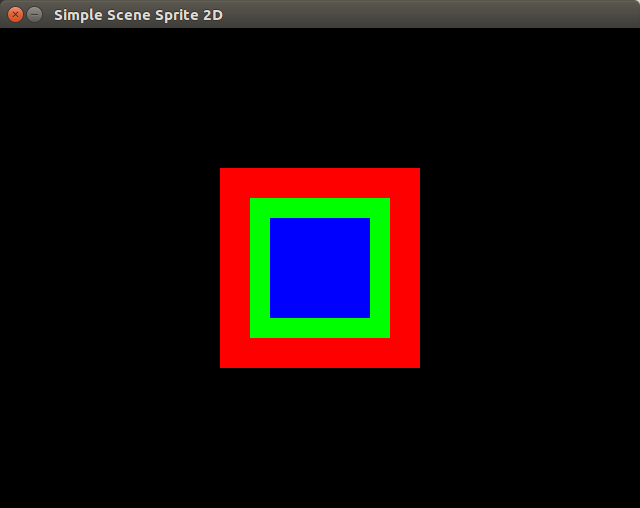
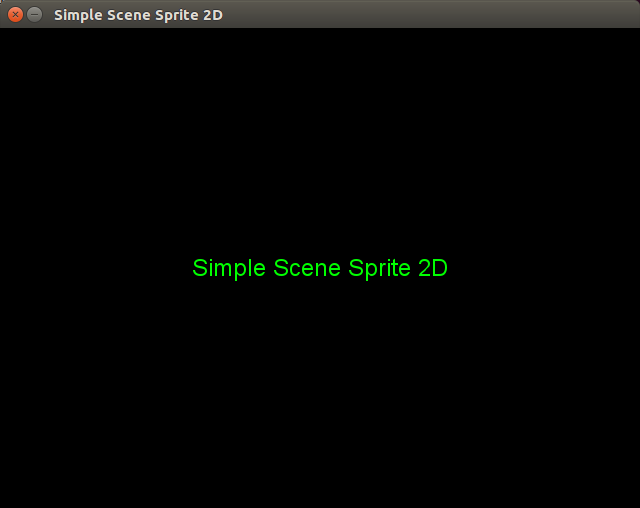
TextSprite

Changed region(s): [[0.2812, 0.3248, 0.7188, 0.7382]]

diff --git a/SSS_Sprite.cpp b/SSS_Sprite.cpp
@@ -1,7 +1,5 @@
 /*
  *  File    : SSS_Sprite.cpp
- *  Version : beta 0.1
- *  Date    : alpha-7-12
  *  Author  : Plan C
  *  Blog    : blog.kurukurumi.com
  *  E-mail  : hubenchang0515@outlook.com
@@ -54,10 +52,122 @@ void AreaSprite::setArea(Area area)
     this->area_ = area;
 }
 
+void AreaSprite::setArea(int x,int y,int w,int h)
+{
+    this->area_.x = x;
+    this->area_.y = y;
+    this->area_.w = w;
+    this->area_.h = h;
+}
+
 void AreaSprite::setColor(Color color)
 {
     this->color_ = color;
 }
+
+void AreaSprite::setColor(Uint8 r,Uint8 g,Uint8 b,Uint8 a)
+{
+    this->color_.r = r;
+    this->color_.g = g;
+    this->color_.b = b;
+    this->color_.a = a;
+}
 // } class AreaSprite
 
+
+// class TextSprite {
+TTF_Font* TextSprite::font_ = nullptr;
+std::string TextSprite::fontFile_ = "";
+size_t TextSprite::fontSize_ = 16;
+
+void TextSprite::setFont(std::string file)
+{
+	TTF_CloseFont(TextSprite::font_);
+	TextSprite::fontFile_ = file;
+	TextSprite::font_ = TTF_OpenFont(file.c_str(),
+								TextSprite::fontSize_);
+								
+	if(TextSprite::font_ == nullptr)
+	{
+		TTF_THROW();
+	}
+}
+
+void TextSprite::setFontSize(size_t size)
+{
+	TextSprite::fontSize_ = size;
+	TTF_CloseFont(TextSprite::font_);
+	TextSprite::font_ = TTF_OpenFont(TextSprite::fontFile_.c_str(),size);
+	
+	if(TextSprite::font_ == nullptr)
+	{
+		TTF_THROW();
+	}
+}
+
+TextSprite::TextSprite(AbstractScene* scene)
+	: AbstractSprite(scene)
+{
+    this->texture_ = nullptr;
+}
+
+void TextSprite::update()
+{
+
+}
+
+void TextSprite::draw()
+{
+    if(this->texture_ != nullptr)
+    {
+    	//setDrawColor(this->renderer(),this->color_);
+    	drawTexture(this->renderer(),this->texture_,this->position_);
+	}
+}
+
+void TextSprite::setText(std::string text)
+{
+    this->text_ = text;
+    SDL_DestroyTexture(this->texture_);
+	Surface* surface = TTF_RenderText_Blended(TextSprite::font_,
+	                                          text.c_str(),this->color_);
+	this->texture_ = SDL_CreateTextureFromSurface(this->renderer(),surface);
+	SDL_FreeSurface(surface);
+}
+
+void TextSprite::setPosition(Position center)
+{
+	this->position_ = center;
+}
+
+void TextSprite::setPosition(int x,int y)
+{
+    this->position_.x = x;
+    this->position_.y = y;
+}
+
+void TextSprite::setColor(Color color)
+{
+	this->color_ = color;
+	SDL_DestroyTexture(this->texture_);
+	Surface* surface = TTF_RenderUTF8_Blended(TextSprite::font_,
+	                                          this->text_.c_str(),this->color_);
+	this->texture_ = SDL_CreateTextureFromSurface(this->renderer(),surface);
+	SDL_FreeSurface(surface);
+}
+
+void TextSprite::setColor(Uint8 r,Uint8 g,Uint8 b,Uint8 a)
+{
+    this->color_.r = r;
+    this->color_.g = g;
+    this->color_.b = b;
+    this->color_.a = a;
+    
+    SDL_DestroyTexture(this->texture_);
+	Surface* surface = TTF_RenderUTF8_Blended(TextSprite::font_,
+	                                          this->text_.c_str(),this->color_);
+	this->texture_ = SDL_CreateTextureFromSurface(this->renderer(),surface);
+	SDL_FreeSurface(surface);
+}
+// } class TextSprite
 };// sss2d

diff --git a/SSS_Sprite.h b/SSS_Sprite.h
@@ -1,7 +1,5 @@
 /*
  *  File    : SSS_Sprite.h
- *  Version : alpha 0.1
- *  Date    : 2017-7-12
  *  Author  : Plan C
  *  Blog    : blog.kurukurumi.com
  *  E-mail  : hubenchang0515@outlook.com
@@ -9,14 +7,14 @@
 #ifndef SSS_SPRITE_H
 #define SSS_SPRITE_H
 
-
-#include <list>
+#include <string>
 
 #include "SSS_Base.h"
 #include "SSS_Scene.h"
 
 namespace sss2d{
 
+/* Super Class of All Sprite */
 class AbstractSprite
 {
 public:
@@ -34,7 +32,7 @@ private:
 };
 
 
-
+/* Rectangle Color Lump Sprit */
 class AreaSprite : public AbstractSprite
 {
 public:
@@ -44,12 +42,45 @@ public:
     virtual void draw();
     
     void setArea(Area area);
+    void setArea(int x,int y,int w,int h);
     void setColor(Color color);
+    void setColor(Uint8 r,Uint8 g,Uint8 b,Uint8 a);
 
 private:
     Area area_;
     Color color_;
 };
+
+
+/* Sprite of Text */
+class TextSprite : public AbstractSprite
+{
+public:
+	static void setFont(std::string file);
+	static void setFontSize(size_t size);
+	
+	TextSprite(AbstractScene* scene  = nullptr);
+	
+	virtual void update();
+	virtual void draw();
+	
+	void setText(std::string text);
+	void setPosition(Position position);
+	void setPosition(int x,int y);
+	void setColor(Color color);
+	void setColor(Uint8 r,Uint8 g,Uint8 b,Uint8 a);
+	
+private:
+	Position position_;
+	Color color_;
+	Texture* texture_;
+	std::string text_;
+	
+	static TTF_Font* font_;
+	static std::string fontFile_;
+	static size_t fontSize_;
+};
+
 
 };// namespace sss2d
 

diff --git a/SSS_Base.h b/SSS_Base.h
@@ -1,7 +1,5 @@
 /*
  *  File    : SSS_Base.h
- *  Version : alpha 0.1
- *  Date    : 2017-7-11
  *  Author  : Plan C
  *  Blog    : blog.kurukurumi.com
  *  E-mail  : hubenchang0515@outlook.com
@@ -19,10 +17,14 @@
 #include <SDL2/SDL_image.h>
 #include <SDL2/SDL_ttf.h>
 
+#define SDL_THROW() (throw std::runtime_error(SDL_GetError()))
+#define IMG_THROW() (throw std::runtime_error(IMG_GetError()))
+#define TTF_THROW() (throw std::runtime_error(TTF_GetError()))
 
 namespace sss2d{
 
 typedef double          fps_t;
+typedef SDL_Surface	    Surface;
 typedef SDL_Texture     Texture;
 typedef SDL_Renderer    Renderer;
 typedef SDL_Window      Window;
@@ -44,6 +46,14 @@ inline void setDrawColor(Renderer* renderer,Color color)
 inline void fillArea(Renderer* renderer,Area area)
 {
     SDL_RenderFillRect(renderer,&area);
+}
+
+inline void drawTexture(Renderer* renderer,Texture* texture,Position center)
+{
+	int w,h;
+	SDL_QueryTexture(texture,NULL,NULL,&w,&h);
+	Area area = {center.x - w/2, center.y - h/2, w, h};
+	SDL_RenderCopy(renderer,texture,NULL,&area);
 }
 
 };// namespace sss2d

diff --git a/SSS_Application.cpp b/SSS_Application.cpp
@@ -1,7 +1,5 @@
 /*
  *  File    : SSS_Application.cpp
- *  Version : alpha 0.1
- *  Date    : 2017-7-10
  *  Author  : Plan C
  *  Blog    : blog.kurukurumi.com
  *  E-mail  : hubenchang0515@outlook.com
@@ -10,9 +8,6 @@
 #include "SSS_Application.h"
 
 /* simplify */
-#define SDL_THROW() (throw std::runtime_error(SDL_GetError()))
-#define IMG_THROW() (throw std::runtime_error(IMG_GetError()))
-#define TTF_THROW() (throw std::runtime_error(TTF_GetError()))
 #define IMG_INIT_EVERYTHING (IMG_INIT_JPG | IMG_INIT_PNG | IMG_INIT_TIF)
 
 namespace sss2d{
@@ -45,6 +40,10 @@ Application::Application(std::string title,int width,int height)
     }
     
     this->renderer_ = SDL_CreateRenderer(this->window_,-1,SDL_RENDERER_ACCELERATED);
+    if(this->renderer_ == nullptr)
+    {
+        this->renderer_ = SDL_CreateRenderer(this->window_,-1,0);
+    }
     if(this->renderer_ == nullptr)
     {
         SDL_THROW();

diff --git a/SSS_Application.h b/SSS_Application.h
@@ -1,7 +1,5 @@
 /*
  *  File    : SSS_Application.h
- *  Version : alpha 0.1
- *  Date    : 2017-7-10
  *  Author  : Plan C
  *  Blog    : blog.kurukurumi.com
  *  E-mail  : hubenchang0515@outlook.com

diff --git a/SSS_Scene.cpp b/SSS_Scene.cpp
@@ -1,7 +1,5 @@
 /*
  *  File    : SSS_Scene.cpp
- *  Version : alpha 0.1
- *  Date    : 2017-7-11
  *  Author  : Plan C
  *  Blog    : blog.kurukurumi.com
  *  E-mail  : hubenchang0515@outlook.com

diff --git a/SSS_Scene.h b/SSS_Scene.h
@@ -1,7 +1,5 @@
 /*
  *  File    : SSS_Scene.h
- *  Version : alpha 0.1
- *  Date    : 2017-7-11
  *  Author  : Plan C
  *  Blog    : blog.kurukurumi.com
  *  E-mail  : hubenchang0515@outlook.com

diff --git a/README.md b/README.md
@@ -22,16 +22,18 @@ int main()
     Application app;
     Scene scene(&app);
     app.setScene(&scene);
-    AreaSprite rSprite(&scene);
-    rSprite.setArea({app.width()/2 -100,app.height()/2 -100,200,200});
-    rSprite.setColor({0xff,0,0,0xff});
-    AreaSprite gSprite(&scene);
-    gSprite.setArea({app.width()/2 -70,app.height()/2 -70,140,140});
-    gSprite.setColor({0,0xff,0,0xff});
-    AreaSprite bSprite(&scene);   
-    bSprite.setArea({app.width()/2 -50,app.height()/2 -50,100,100});
-    bSprite.setColor({0,0,0xff,0xff});
-    app.start();
+    
+    /* Use static function to set font*/
+    TextSprite::setFont("wqy-zenhei.ttc");
+    TextSprite::setFontSize(24);
+    
+    TextSprite text(&scene);
+    text.setText("Simple Scene Sprite 2D");
+    text.setColor(0x00,0xff,0x00,0xff);
+    text.setPosition(app.width()/2 , app.height()/2);
+    app.start(60);
+    
+    
 }
 ```
 ### Compile
@@ -42,12 +44,33 @@ g++ -o demo demo.cpp -lsss2d -std=c++11 -lsss2d -lSDL2 -lSDL2_image -lSDL2_ttf
 ![image](https://github.com/hubenchang0515/Simple-Scene-Sprite-2D/blob/master/demo.png?raw=true)
 
 ## Log
+---
+### 2017-7-13 : Alpha 0.2
+Add class TextSprile,which is used to show text.
+
+#### Update File
+* Sprite.h
+* Sprite.cpp
+
+#### Add Class
+* TextSprite
+---
 ### 2017-7-12 : Alpha 0.1
-* Add File : SSS_Base.h
-* Add File : SSS_Application.h  
-* Add File : SSS_Scene.h
-* Add File : SSS_Sprite.h
-* Add File : SSS_Application.cpp  
-* Add File : SSS_Scene.cpp
-* Add File : SSS_Sprite.cpp
-* Add File : sss2d.h
+Create Project  
+
+#### Add File
+* Application.h  
+* Application.cpp  
+* Scene.h  
+* Scene.cpp  
+* Sprite.h  
+* Sprite.cpp  
+* sss2d.h  
+  
+#### Add Class   
+* Application    
+* AbstactScene  
+* Scene  
+* AbstactSprite  
+* AreaSprite  
+---  
